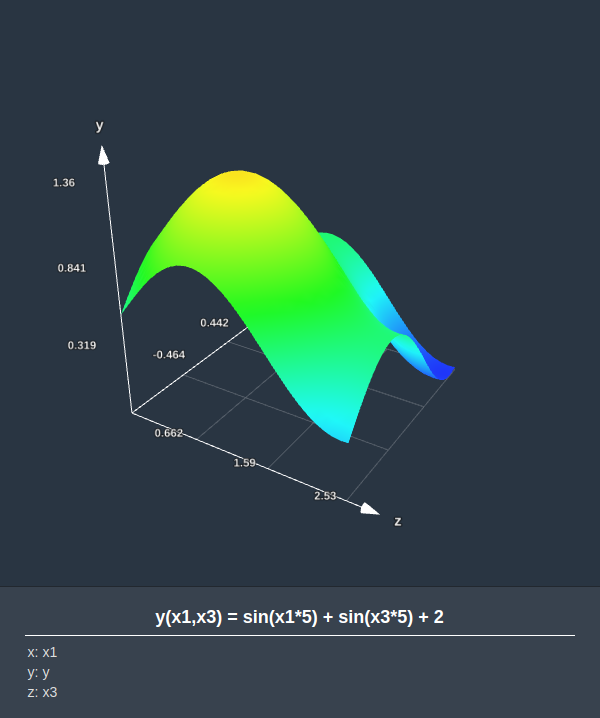
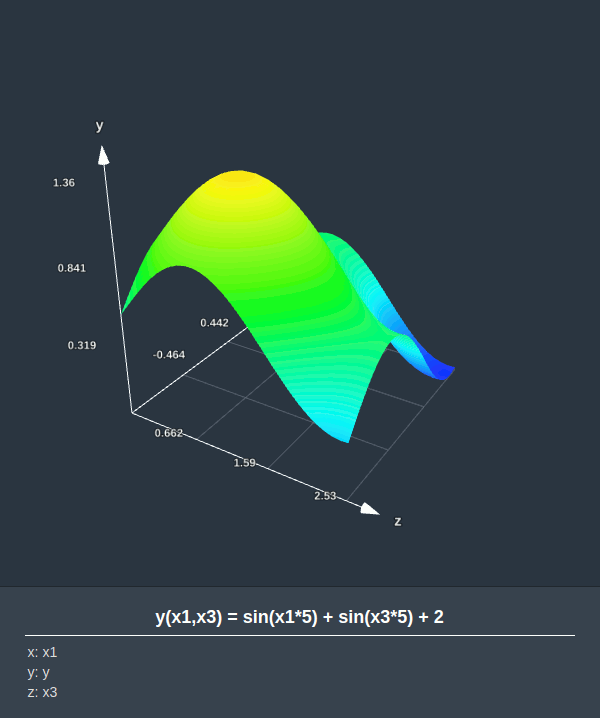
formula: y-normalization, code quality, axis-numbers

Changed region(s): [[0.42, 0.3064, 0.69, 0.5822], [0.21, 0.3677, 0.24, 0.429]]

diff --git a/src/JsPlot3D.js b/src/JsPlot3D.js
@@ -90,7 +90,7 @@ export class Plot
 
     /**
      * plots a formula into the container as 3D Plot
-     * @param {string} originalFormula string of formula
+     * @param {string} originalFormula string of formula. example: sin(x1) + x3
      * @param {object} options json object with one or more of the following parameters:
      * - mode {string}: "barchart", "scatterplot", "polygon" or "lineplot"
      * - header {boolean}: a boolean value whether or not there are headers in the first row of the csv file. Default true
@@ -130,6 +130,15 @@ export class Plot
         let x2frac = 1
         let normalizeX2 = true
         
+        let title = originalFormula
+        let x1title = "x1"
+        let x2title = "y(x1,x3)"
+        let x3title = "x3"
+        if(options.title != undefined)  title = options.title
+        if(options.x1title != undefined) x1title = options.x1title
+        if(options.x2title != undefined) x2title = options.x2title
+        if(options.x3title != undefined) x3title = options.x3title
+
         if(options.mode != undefined) mode = options.mode
         if(options.x2frac != undefined) x2frac = options.x2frac
         if(options.normalizeX2 != undefined) normalizeX2 = options.normalizeX2
@@ -231,14 +240,6 @@ export class Plot
             // This requires some more work. -inf and +inf values should be indicated by hidden faces around those vertices
 
             // creating the legend. As this polygon mode does not forward a dataframe to plotDataFrame, creating the legend has to be handled here in plotFormula
-            let title = ""
-            let x1title = "x1"
-            let x2title = "x2"
-            let x3title = "x3"
-            if(options.title != undefined)  title = options.title
-            if(options.x1title != undefined) x1title = options.x1title
-            if(options.x2title != undefined) x2title = options.x2title
-            if(options.x3title != undefined) x3title = options.x3title
             this.populateLegend({x1title, x2title, x3title, title})
 
             // same goes for colors. plotFormula has to handle them on it's own
@@ -246,9 +247,9 @@ export class Plot
             if(this.checkNumber("hueOffset", options.hueOffset))
                 hueOffset = parseFloat(options.hueOffset)
                 
-            /*let numberDensity = 2
+            let numberDensity = 3
             if(this.checkNumber("numberDensity", options.numberDensity))
-                numberDensity = parseFloat(options.numberDensity)*/
+                numberDensity = parseFloat(options.numberDensity)
 
             // might need to recreate the geometry and the matieral
             // is there a plotmesh already? Or maybe a plotmesh that is not created from a 3D Plane (could be a scatterplot or something else)
@@ -294,77 +295,65 @@ export class Plot
             // modifying vertex positions:
             // https://github.com/mrdoob/three.js/issues/972
             let y = 0
-            let vIndex = 0
 
-            // to counter the need for dividing each iteration
-            let x1Actual = 0 // x
-            let x3Actual = (this.dimensions.zVerticesCount-1)/this.dimensions.zRes // z
-            let x1ActualStep = 1/this.dimensions.xRes
-            let x3ActualStep = 1/this.dimensions.zRes
-            let minX2 = 0
-            let maxX2 = 0
+            // so what is this "Actual"?
+            // it is about the dimension in mathematical space, which happens to be the same space as the 3Dimensional space
+            // there are xVerticesCount Vertices per 1 xLen, e.g. 20. That means x1ActualStep is 1/20
+            let minX2 = this.MathParser.f(0, 0) * this.dimensions.yLen
+            let maxX2 = this.MathParser.f(0, 0) * this.dimensions.yLen
 
             /*let faceIndex1 = 0
             let faceIndex2 = 0*/
 
-
-            for(let z = this.dimensions.zVerticesCount; z >= 0; z--)
+            for(let vIndex = 0; vIndex < this.plotmesh.geometry.vertices.length; vIndex ++)
             {
-                for(let x = 0; x <= this.dimensions.xVerticesCount; x++)
+                y = this.MathParser.f(this.plotmesh.geometry.vertices[vIndex].x, this.plotmesh.geometry.vertices[vIndex].z)
+
+                /*// in each face there are 3 attributes, which stand for the vertex Indices (Which are vIndex basically)
+                // faces are ordered so that the vIndex in .c is in increasing order. If faceIndex.c has an unmatching value, increase
+                // the faceindex and therefore switch to a different face which mathes .c with vIndex.
+                while(faceIndex1 < this.plotmesh.geometry.faces.length && this.plotmesh.geometry.faces[faceIndex1].c < vIndex)
                 {
-                    y = this.MathParser.f(x1Actual, x3Actual)
-
-                    /*// in each face there are 3 attributes, which stand for the vertex Indices (Which are vIndex basically)
-                    // faces are ordered so that the vIndex in .c is in increasing order. If faceIndex.c has an unmatching value, increase
-                    // the faceindex and therefore switch to a different face which mathes .c with vIndex.
-                    while(faceIndex1 < this.plotmesh.geometry.faces.length && this.plotmesh.geometry.faces[faceIndex1].c < vIndex)
-                    {
-                        faceIndex1++
-                    }
-                    // the result of this operation is: faces[faceIndex].c === vIndex
-
-                    // do similar for faceIndex2.
-                    while(faceIndex2 < this.plotmesh.geometry.faces.length && this.plotmesh.geometry.faces[faceIndex2].a < vIndex)
-                    {
-                        faceIndex2++
-                    }*/
-                    
-                    this.plotmesh.geometry.colors[vIndex] = new THREE.Color(0x6600ff)
-
-                    if(!isNaN(y) && Math.abs(y) != Number.POSITIVE_INFINITY)
-                    {
-                        this.plotmesh.geometry.vertices[vIndex].y = y
-                        
-                        if(y > maxX2)
-                            maxX2 = y
-                        if(y < minX2)
-                            minX2 = y
-                    }
-                    else
-                    {
-                        // console.warn("this does not fully work yet. Some vertex are at y = 0 but that face should be invisible")
-
-                        // there are two faces per vertex that have VIndex as face.c
-                        /*if(this.plotmesh.geometry.faces[faceIndex1+1] != undefined)
-                        {
-                            this.plotmesh.geometry.faces[faceIndex1].materialIndex = 1
-                            this.plotmesh.geometry.faces[faceIndex1+1].materialIndex = 1
-                            this.plotmesh.geometry.faces[faceIndex1+2].materialIndex = 1
-                        }
-
-                        //every second face has vIndex as face.a. 0 _ 1 _ 2 _ 3
-                        if(this.plotmesh.geometry.faces[faceIndex2] != undefined)
-                        {
-                            this.plotmesh.geometry.faces[faceIndex2].materialIndex = 1
-                        }*/
-                        // https://stackoverflow.com/questions/12468906/three-js-updating-geometry-face-materialindex
-                    }
-
-                    vIndex ++
-                    x1Actual += x1ActualStep
+                    faceIndex1++
                 }
-                x1Actual = 0
-                x3Actual -= x3ActualStep
+                // the result of this operation is: faces[faceIndex].c === vIndex
+
+                // do similar for faceIndex2.
+                while(faceIndex2 < this.plotmesh.geometry.faces.length && this.plotmesh.geometry.faces[faceIndex2].a < vIndex)
+                {
+                    faceIndex2++
+                }*/
+                
+                this.plotmesh.geometry.colors[vIndex] = new THREE.Color(0x6600ff)
+
+                if(!isNaN(y) && Math.abs(y) != Number.POSITIVE_INFINITY && this.plotmesh.geometry.vertices[vIndex])
+                {
+                    this.plotmesh.geometry.vertices[vIndex].y = y
+                    
+                    if(y > maxX2)
+                        maxX2 = y
+                    if(y < minX2)
+                        minX2 = y
+                }
+                else
+                {
+                    // console.warn("this does not fully work yet. Some vertex are at y = 0 but that face should be invisible")
+
+                    // there are two faces per vertex that have VIndex as face.c
+                    /*if(this.plotmesh.geometry.faces[faceIndex1+1] != undefined)
+                    {
+                        this.plotmesh.geometry.faces[faceIndex1].materialIndex = 1
+                        this.plotmesh.geometry.faces[faceIndex1+1].materialIndex = 1
+                        this.plotmesh.geometry.faces[faceIndex1+2].materialIndex = 1
+                    }
+
+                    //every second face has vIndex as face.a. 0 _ 1 _ 2 _ 3
+                    if(this.plotmesh.geometry.faces[faceIndex2] != undefined)
+                    {
+                        this.plotmesh.geometry.faces[faceIndex2].materialIndex = 1
+                    }*/
+                    // https://stackoverflow.com/questions/12468906/three-js-updating-geometry-face-materialindex
+                }
             }
 
             
@@ -389,14 +378,16 @@ export class Plot
             {
                 let a = Math.max(Math.abs(maxX2), Math.abs(minX2)) // based on largest |value|
                 let b = Math.abs(maxX2-minX2) // based on distance between min and max
-                x2frac = Math.max(a, b) // hybrid
+                x2frac = Math.max(a, b)/this.dimensions.yLen // hybrid
                 this.plotmesh.geometry.scale(1,1/x2frac,1)
             }
 
-        
-            // if(this.SceneHelper.axes != undefined)
-            //     this.SceneHelper.updateAxesNumbers(this.dimensions, {minX1: 0, maxX1: 1, minX2: 0, maxX2: 1, minX3: 0, maxX3: 1}, numberDensity)
+            // update the numbers along the axes. minimum for x1 and x3 are 0, maximum are the length
+            this.SceneHelper.updateNumbersAlongAxis(numberDensity, this.dimensions.xLen, XAXIS, 0, this.dimensions.xLen)
+            this.SceneHelper.updateNumbersAlongAxis(numberDensity, this.dimensions.yLen, YAXIS, minX2, maxX2)
+            this.SceneHelper.updateNumbersAlongAxis(numberDensity, this.dimensions.zLen, ZAXIS, 0, this.dimensions.zLen)
 
+            // name and write down as children so that it can be rendered
             this.plotmesh.name = "polygonFormula"
             this.SceneHelper.scene.add(this.plotmesh)
 
@@ -1194,6 +1185,7 @@ export class Plot
             this.oldData.normalization.maxX2 = maxX2
             this.oldData.normalization.minX3 = minX3
             this.oldData.normalization.maxX3 = maxX3
+            this.oldData.numberDensity = numberDensity
 
             if(updatex1)
             {
@@ -1539,6 +1531,7 @@ export class Plot
 
     /**
      * not used for initialization, but rather for changing dimensions during runtime. will trigger axes recreation
+     * Note that this has to be done before creating a plot
      * @param {object} dimensions json object can contain the following:
      * - xRes number of vertices for the x-axis
      * - zRes number of vertices for the z-axis
@@ -1696,12 +1689,13 @@ export class Plot
     }
 
     /**
-     * Creates new axes with the defined color and triggers a rerender
+     * Creates new axes with the defined color and triggers a rerender. Note that this has to be done before creating a plot
      * @param {String} color axes color. Examples: 0xffffff, "#ff6600", "rgb(1,0.5,0)", "hsl(0.7,0.6,0.3)"
      */
     setAxesColor(color)
     {
         this.SceneHelper.createAxes(color, this.dimensions, this.oldData.normalization)
+
         this.SceneHelper.makeSureItRenders(this.animationFunc)
     }
 

diff --git a/examples/playground/script.js b/examples/playground/script.js
@@ -111,9 +111,10 @@ function getOptions()
 /**
  * plots a .csv file using the contents of the decodedData variable
  */
-// calling it plot() throws an error
 function plotcsv()
 {
+    // (calling it function plot() throws an error)
+
     let x1 = document.getElementById("x1").value
     let x2 = document.getElementById("x2").value
     let x3 = document.getElementById("x3").value
@@ -126,11 +127,12 @@ function plotcsv()
         let table = "<table>"
 
         table += "<tr>"
-        for(var i = 0;i < tableData[0].length; i++)
+        var i
+        for(i = 0;i < tableData[0].length; i++)
             table += "<td>"+i+"</td>"
         table += "</tr>"
 
-        for(var i = 0;i < tableData.length; i++)
+        for(i = 0;i < tableData.length; i++)
             tableData[i] = "<td>"+tableData[i].join("</td><td>")+"</td>"
 
         table += "<tr>"+tableData.join("</tr><tr>")+"</tr>"
@@ -155,7 +157,9 @@ function main()
         recentplot = formulaFormSubmit
         recentplote = e
         var formula = document.getElementById("formulaText").value
-        plot.plotFormula(formula, getOptions())
+        var options = getOptions()
+        options.title = undefined
+        plot.plotFormula(formula, options)
     }
 
 
@@ -170,6 +174,14 @@ function main()
         {
             let reader = new FileReader()
             let file = document.getElementById("fileup").files[0]
+
+            if(!file) {
+                console.error("Something went wrong while processing your file using a JavaScript FileReader, because the file is undefined. Here is some debug information:")
+                console.error(document.getElementById("fileup"))
+                console.error(reader)
+                return window.alert("please reupload your file")
+            }
+
             reader.readAsText(file)
             reader.onload = function(e)
             {
@@ -212,6 +224,7 @@ function main()
     {
         e.preventDefault()
         plot.setBackgroundColor(getVal("backgroundColor"))
+        recentplot(recentplote)
     })
     
     
@@ -219,6 +232,7 @@ function main()
     {
         e.preventDefault()
         plot.setAxesColor(getVal("axesColor"))
+        recentplot(recentplote)
     })
 
 

diff --git a/examples/csvFiles/tools/pngToCsv/pngToCsv.js b/examples/csvFiles/tools/pngToCsv/pngToCsv.js
@@ -52,6 +52,9 @@ sizeOf(file, function(err, dimensions) {
                 long = (29.625+x/120)
                 lat = (-13.2562+y/80)
                 
+                if(clr.match("undefined"))
+                    break
+                
                 // example: 40,10,255,128,10
                 data += long + "," + lat + "," + clr + "\n"
             }
@@ -75,6 +78,9 @@ sizeOf(file, function(err, dimensions) {
 
                 long = (29.625+x/120)
                 lat = (-13.2562+y/80)
+
+                if(clr.match("undefined"))
+                    break
                 
                 // example: 40,10,255,128,10
                 data += long + "," + lat + "," + clr + "\n"

diff --git a/src/SceneHelper.js b/src/SceneHelper.js
@@ -413,7 +413,7 @@ export default class SceneHelper
         let offset2 = -0.075
         let position = ([
             (value)=>{return new THREE.Vector3(value, -offset2, offset2)}, // x-Axis
-            (value)=>{return new THREE.Vector3(offset2, value, offset2)}, // y-Axis
+            (value)=>{return new THREE.Vector3(offset2, value, offset2/2)}, // y-Axis
             (value)=>{return new THREE.Vector3(offset2, -offset2, value)}  // z-Axis
         ])[axisNumber-1]
 
@@ -425,7 +425,6 @@ export default class SceneHelper
         ])[axisNumber-1]
 
         let numberCount = (numberDensity*axisLen)|0
-
 
 
         // load the numbers that have already been created at some point:

diff --git a/examples/playground/index.html b/examples/playground/index.html
@@ -149,7 +149,7 @@
                             <label>x3title:</label><input id="x3title" class="short" type="text"></input>
                         </p>
                         <p>
-                            <label>fraction:</label><input id="fraction" type="number" max="1" min="0" step="0.1"></input>
+                            <label>fraction:</label><input id="fraction" type="number" max="1" min="0" step="0.001"></input>
                             <small>If < 1, the dataframe will get smaller with each plot</small>
                         </p>
                         <p>

diff --git a/test/visual_tests/webpack.config.test.js b/test/visual_tests/webpack.config.test.js
@@ -1,13 +1,13 @@
-var path = require('path');
+var path = require("path")
 
 module.exports = {
 
-  entry: path.resolve(__dirname, 'src/JsPlot3D.js'),
+  entry: path.resolve(__dirname, "src/JsPlot3D.js"),
 
   output: {
-    path: path.resolve(__dirname, 'compiled'),
-    filename: 'JsPlot3D.js',
-    library: 'JSPLOT3D'
+    path: path.resolve(__dirname, "compiled"),
+    filename: "JsPlot3D.js",
+    library: "JSPLOT3D"
   },
 
   module: {
